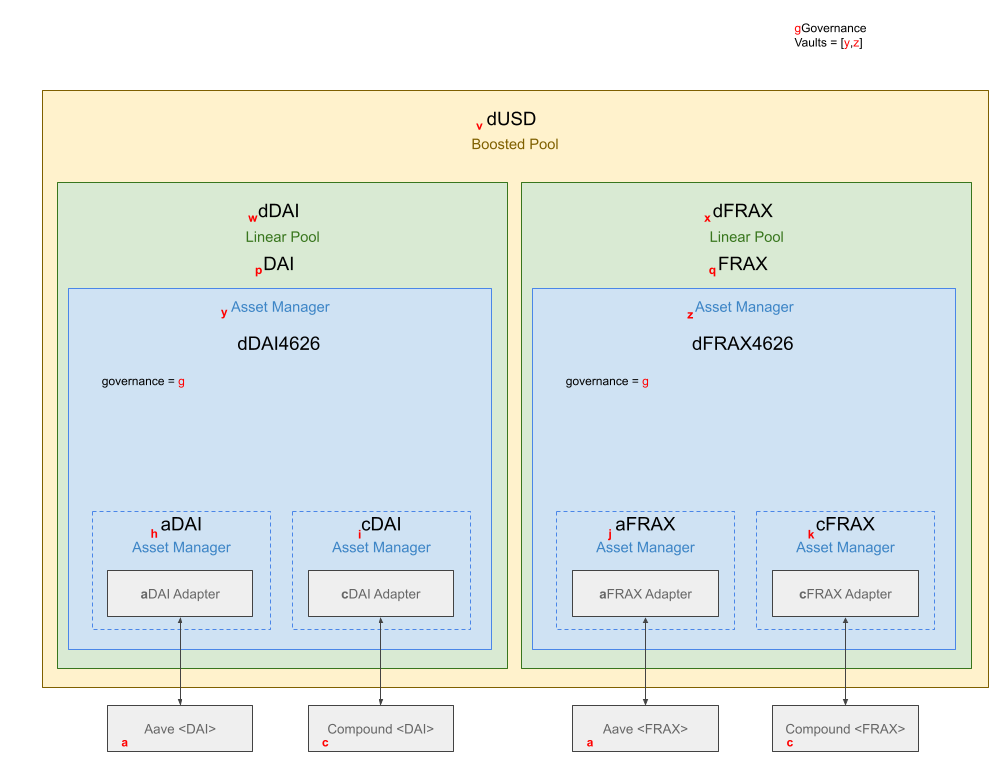
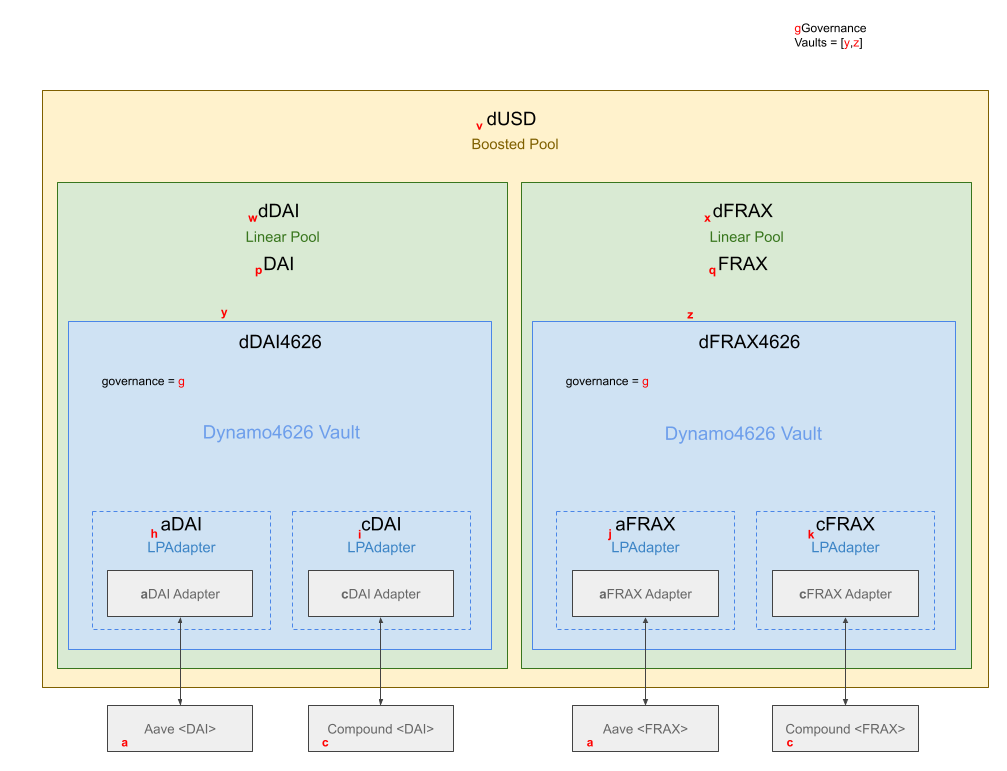
Updated dUSDDiagram to reflect architecture changes. Initial Dynamo4626 redeem sequence diagram.

diff --git a/docs/Dynamo4626.md b/docs/Dynamo4626.md
@@ -69,13 +69,13 @@ sequenceDiagram
         Note over a4626: Txs = _genBalanceTxs(maxTx=2)
         a4626-->>a4626: _genBalanceTxs(maxTxs=2) -> Transfer[]
         loop for Tx: Transfer in Txs<br>(limited to maxTxs iterations)
-            alt Tx.Qty==0
+            alt if Tx.Qty==0
                 note over a4626: break
-            else Tx.Qty > 0
+            else if Tx.Qty > 0
                 a4626->>lpa: (Tx.Adapter).deposit(Tx.Qty)
                     note over lpa: asset.balanceOf[d<Token>4626]-=Tx.Qty<br>asset.balanceOf[LP]+=Tx.Qty<br>share.balanceOf[d<Token>4626]+=~Tx.Qty
                         
-            else Tx.Qty < 0
+            else (elif Tx.Qty < 0)
                 a4626->>lpa: (Tx.Adapter).withdraw(<br>asset_amount=-1 * Tx.Qty,<br>withdraw_to=d<Token>4626)
                     note over lpa: asset.balanceOf[LP]-=~Tx.Qty<br>share.balanceOf[d<Token>4626]-=~Tx.Qty<br>asset.balanceOf[d<Token>4626]+=Tx.Qty
             end
@@ -100,6 +100,51 @@ sequenceDiagram
 #### redeem (shares, destination, owner) -> assets
 
     Convert X shares controlled by owner back to Y assets to be credited to destination.
+
+```mermaid
+sequenceDiagram
+    participant u as Investor
+    participant a4626 as d<Token>4626
+    participant lpa as LP Adapter
+    participant asset as <ERC20 Asset Token><br>"asset"
+    #participant lp as LP
+    #participant share as <ERC20 LP Share>
+    participant eth as Ethereum Mainnet
+    
+    autonumber
+    u->>a4626:redeem(shares = 500, dest = Investor)
+    note over a4626: Assets, Txs = _genRedeemTxs(shares=500)<br>Redeemed: uint256 = 0
+    a4626-->>a4626: _genRedeemTxs(shares=500) -> Transfer[]
+    loop for Tx: Transfer in Txs
+       alt if Tx.Qty==0
+           note over a4626: break
+       else if Tx.Qty > 0
+           note over a4626: SendVal: uint256 = min(Tx.Qty, Assets-Redeemed)
+           alt if SendVal > 0
+               a4626->>lpa: (Tx.Adapter).withdraw(SendVal, Investor)
+               note over lpa: asset.balanceOf[Investor]+=Sendval
+               note over a4626: Redeemed += SendVal<br>Tx.Qty -= SendVal
+           end
+           alt if Tx.Qty > StrategyMinTxValue
+               a4626->>lpa: (Tx.Adapter).withdraw(Tx.Qty, d<Token>4626)
+               note over lpa: asset.balanceOf[d<Token>4626]+=Tx.Qty
+           end
+           a4626->>lpa: (Tx.Adapter).deposit(Tx.Qty)
+           note over lpa: asset.balanceOf[d<Token>4626]-=Tx.Qty<br>asset.balanceOf[LP]+=Tx.Qty<br>share.balanceOf[d<Token>4626]+=~Tx.Qty
+       else (otherwise)
+           a4626->>lpa: (Tx.Adapter).deposit(-1 * Tx.Qty)
+            note over lpa: asset.balanceOf[d<Token>4626]-=Tx.Qty<br>asset.balanceOf[LP]+=Tx.Qty<br>share.balanceOf[d<Token>4626]+=~Tx.Qty
+       end      
+    end
+    
+    alt if Assets - Redeemed > 0
+        a4626->>asset: transfer(to=Investor, Assets - Redeemed)
+    end
+    
+    a4626-->>a4626: ERC20(self).burnFrom(from=Investor, qty=shares)
+   
+   a4626->>u: return Assets
+```    
 
 #### withdraw (assets, destination, owner) -> shares
 
